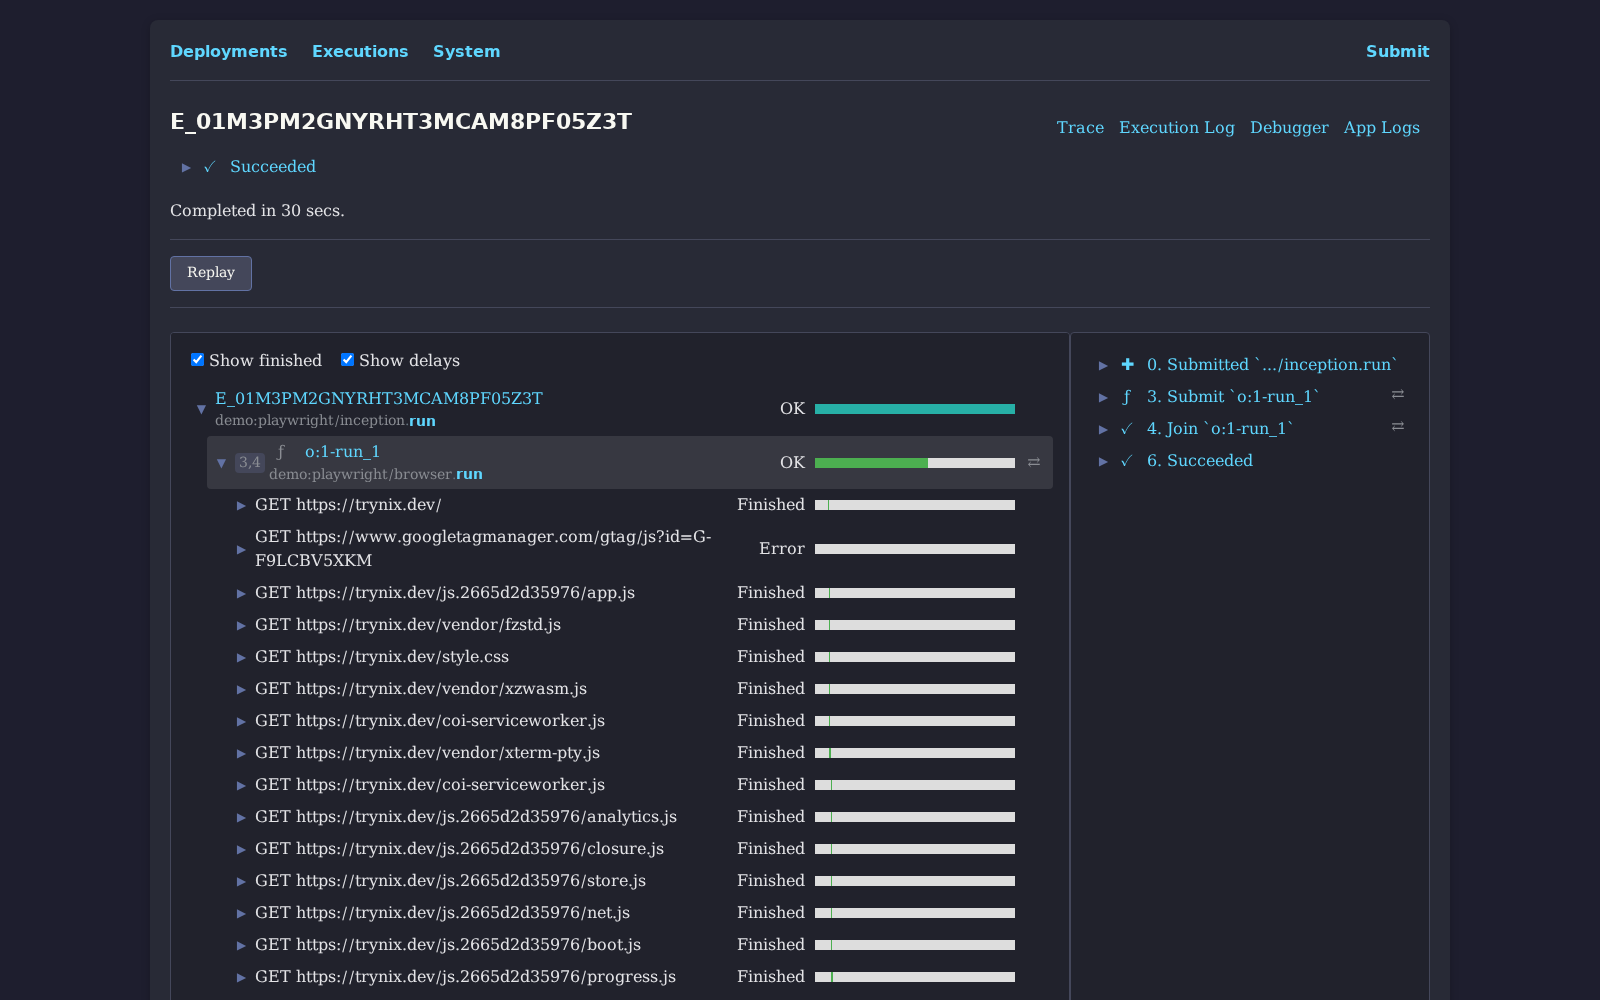
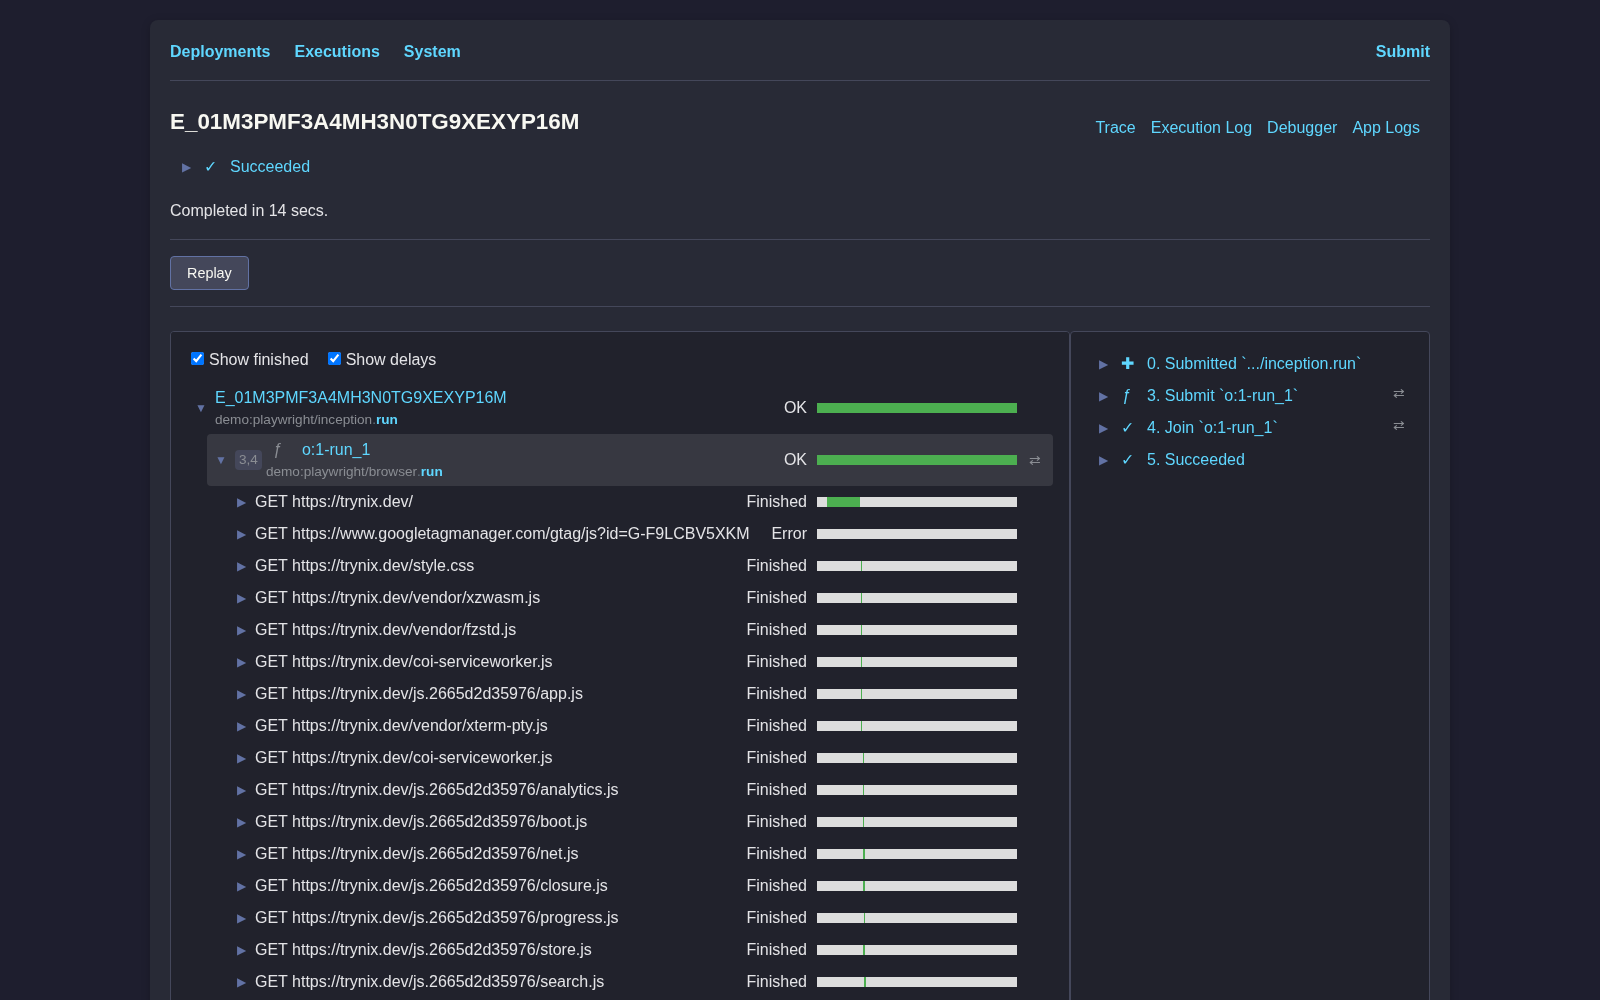
docs: show the inception web UI trace in the main README

diff --git a/README.md b/README.md
@@ -12,6 +12,10 @@ Two [Obelisk](https://obeli.sk) apps drive a Chromium browser with
 
   <img src="inception/screenshots/vnc-demo.gif" width="322" alt="VNC browser loading trynix, selecting the Obelisk store path, booting the VM and printing obelisk -v">
 
+  Run in an activity VM, the web UI's trace shows every HTTP request the browser made:
+
+  <img src="inception/screenshots/webui-trace.png" width="400" alt="Obelisk web UI trace of an inception run: the workflow, its browser.run activity and the HTTP requests Chromium made from the activity VM">
+
 ## How it works
 
 In Obelisk, a [workflow](https://obeli.sk/docs/latest/concepts/workflows/) is deterministic code
